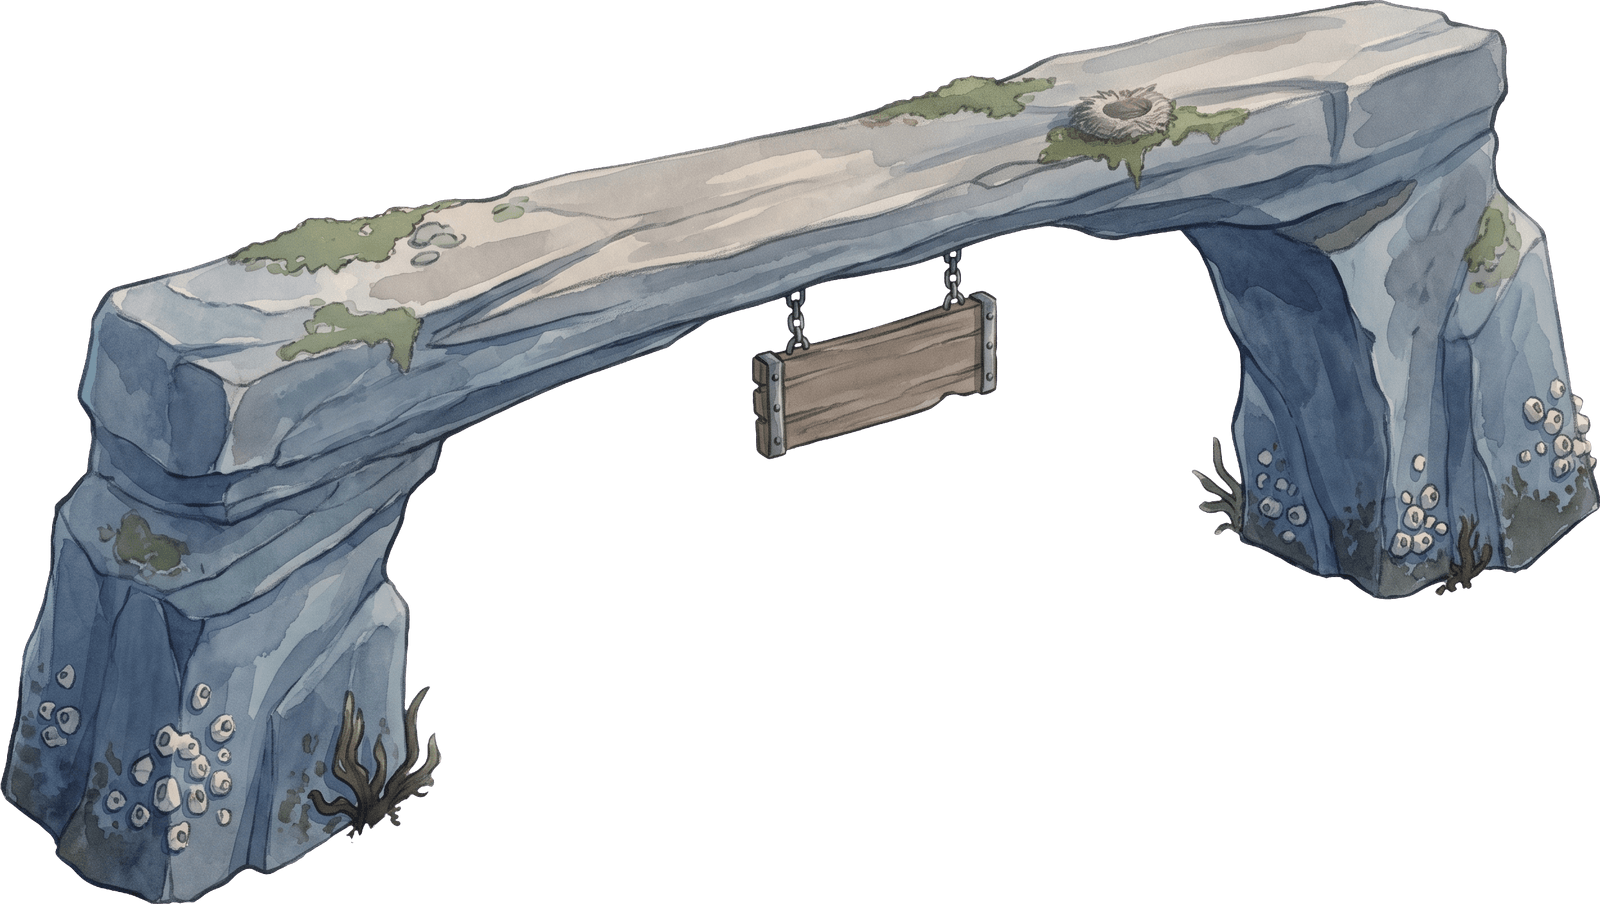
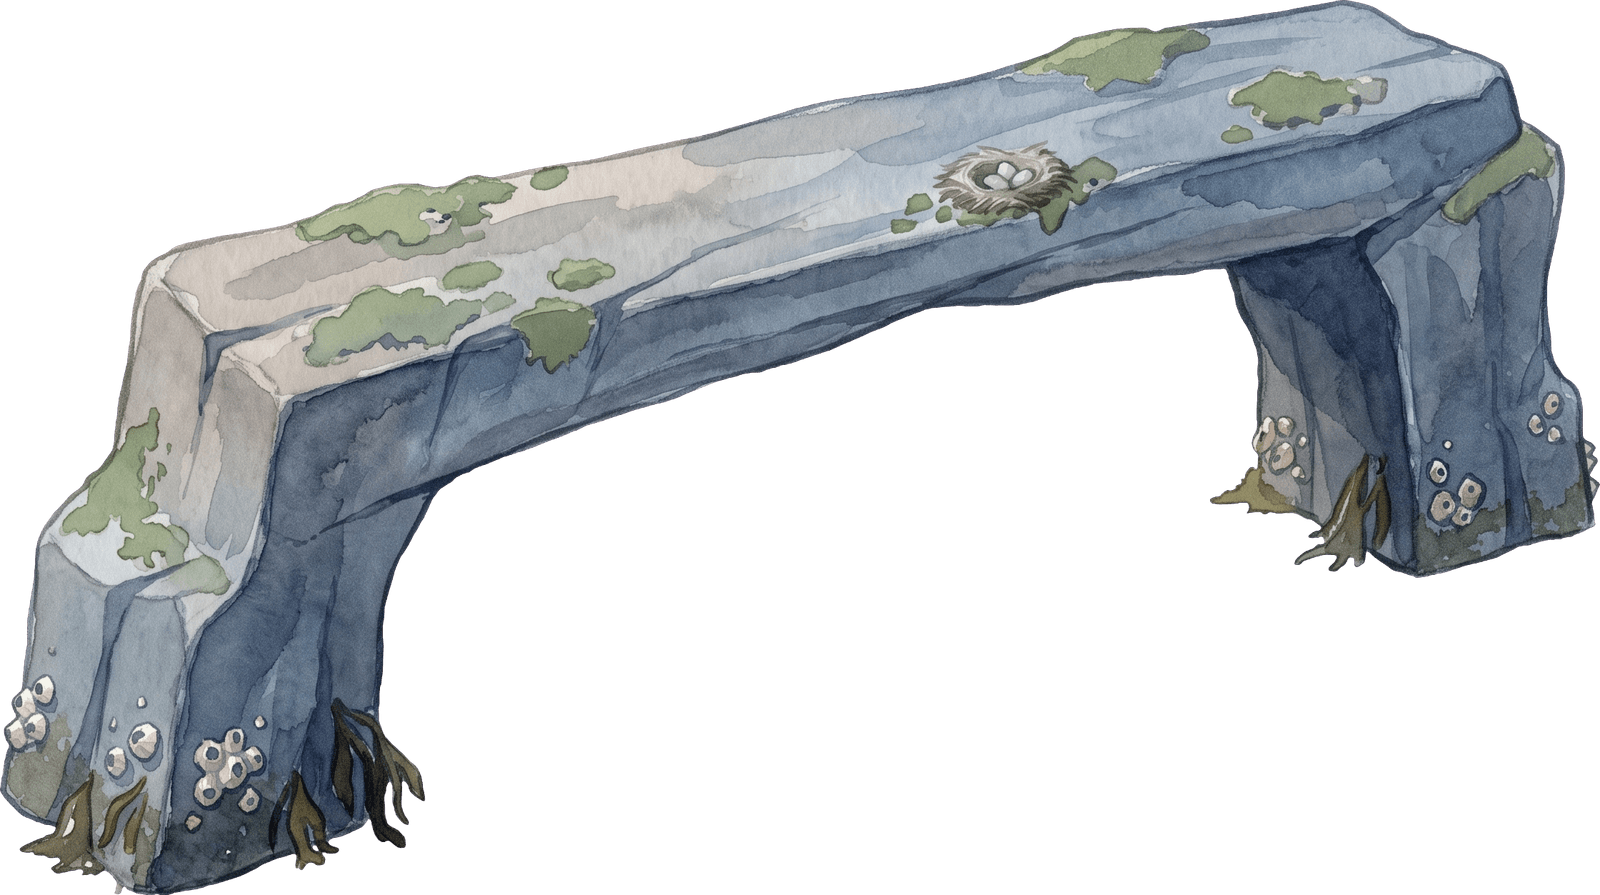
The Godot port: the arch loses its sign; the catch note rides smoothly; the resting hook stops flailing.
The catch note follows the boat every frame, rises quickly into place and holds, instead of crawling a pixel at a time. At rest the hook is held on a soft leash, trailing a little behind the boat's way and swaying, instead of swinging free.

diff --git a/docs/systems/steam-port.md b/docs/systems/steam-port.md
@@ -631,9 +631,9 @@ build passes it. Weighed and accepted: the rewrite is months before multiplayer 
   Kie.ai from nano-banana-2/prompts/north-*.json (blue-grey island-rim stone, painted from the
   camera's three-quarter angle, the wall darker basalt), keyed on magenta HARD 35 / SOFT 8.
   The same seeds place them, so the layout is the web's; the picture at each spot is not. The
-  arch is ONE picture over the passage (ARCH_WIDE 1,600, opening 0.25 to 0.81 of it), anchored
-  at its near foot so a hull past that foot draws behind the span; its board carries "The
-  Anchorage" in ink. Every rock stands in the water as the boats do (fx/waterline with a calm
+  arch is ONE picture over the passage (ARCH_WIDE 1,600, opening 0.26 to 0.83 of it), anchored
+  at its near foot so a hull past that foot draws behind the span. NO SIGN on it (Kong: a
+  board with "The Anchorage" on it "shouldn't be there"). Every rock stands in the water as the boats do (fx/waterline with a calm
   lap_amp 0.4, plus a collar; the arch has no collar and a sloped waterline, its far foot
   higher). The reef runs the chart's width at NORTH_WALL with one gap, the arch (GATE_X -900,
   half 430); the anchorage is the disc of 3,600 from (0, -3000), walled wherever north of the
